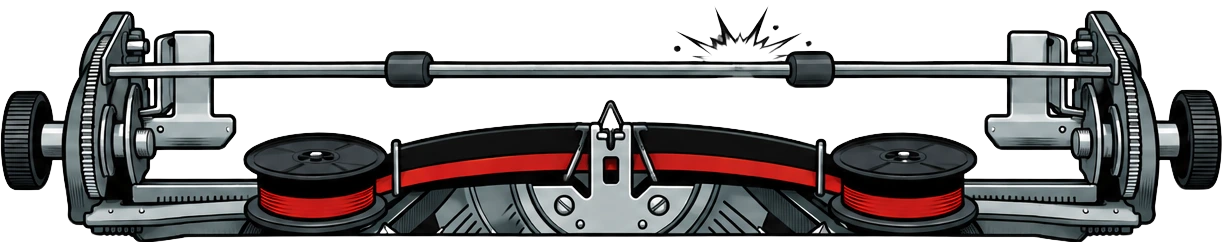
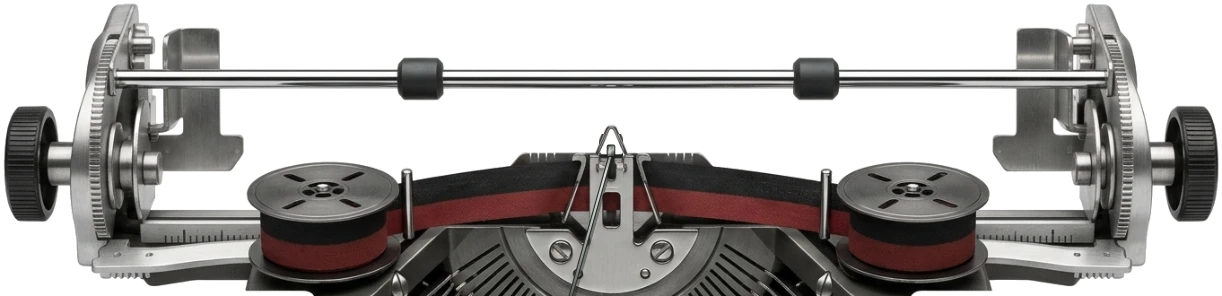
feat: máquina de escrever técnica fotorrealista sem explosões + Fases 7-10 no plano de voo
- Substitui os 5 quadros cartoon da máquina por renderização industrial fotorrealista (1222x296 WebP/PNG, 55 KB/quadro em WebP, recorte com descontaminação de halo sobre E-Ink #c4cfc2)
- Remove completamente explosões/estalos cartoon nos quadros de batida e no fallback SVG: os quadros strike-1..4 exibem apenas haste metálica real (typebar) e micro-elevação da fita no guia-tipo
- Aprimora o movimento físico em maquina-visual.js: micro-recuo seco na tecla, passo lateral no Backspace e retorno lateral amortecido do carro no Enter
- Registra no Plano de Voo (docs/PLANO-VOO-TRANSPLANTE-ES5.md): Fase 7 (papel paginado padrão Word/laudas no Superfoco), Fase 8 (salvamento/exportação seletiva por projeto/pasta/nota), Fase 9 (impressão editorial por nota/pasta/projeto) e Fase 10 (futuros temas derivados do E-Ink)
- 61/61 verificações essenciais + build reproduzível confirmados

diff --git a/escrevaral.html b/escrevaral.html
@@ -12549,13 +12549,13 @@ SOFTWARE.
   'use strict';
   root.Escr = root.Escr || {};
 
-  var RATIO = 242 / 1222;
+  var RATIO = 296 / 1222;
   var PLATEN = 0.60;
-  var ROLLER_TOP = 61 / 242;
+  var ROLLER_TOP = 70 / 296;
   var MIN_VISIBLE = 0.62;
   var MAX_SHARE = 0.38;
-  var STRIKE = { lift: 2.2, ms: 115 };
-  var CARRIAGE = { lift: 5.0, ms: 180 };
+  var STRIKE = { lift: 1.7, ms: 92 };
+  var CARRIAGE = { lift: 2.4, sweep: -12, ms: 215 };
   var IDLE_TIMEOUT_MS = 135;
   var PREF_KEY = 'escrevaral.typewriter.machine.v1';
   var FRAME_FILES = [
@@ -12570,7 +12570,7 @@ SOFTWARE.
 
   function makeFallbackSvg(idx) {
     var spark = idx > 0
-      ? '<g stroke="#242d23" stroke-width="2.5" stroke-linecap="round"><line x1="611" y1="32" x2="' + (592 + idx * 9) + '" y2="14"/><line x1="611" y1="32" x2="' + (630 - idx * 7) + '" y2="16"/></g>'
+      ? '<line x1="' + (540 + idx * 28) + '" y1="242" x2="611" y2="96" stroke="#9ea7a3" stroke-width="4" stroke-linecap="round"/><rect x="606" y="88" width="10" height="14" rx="1.5" fill="#4b534f"/>'
       : '';
     var svg = '<svg xmlns="http://www.w3.org/2000/svg" viewBox="0 0 1222 242">' +
       '<rect x="64" y="61" width="1094" height="58" rx="18" fill="#242d23"/>' +
@@ -12803,11 +12803,25 @@ SOFTWARE.
       if (typeof wrap.animate === 'function') {
         try { if (animObj) { animObj.cancel(); } } catch (ignore) {}
         try {
-          animObj = wrap.animate([
-            { transform: 'translate3d(0,0,0)', easing: 'cubic-bezier(0.2, 0.8, 0.3, 1)' },
-            { transform: 'translate3d(0,' + spec.lift + 'px,0)', offset: 0.38, easing: 'cubic-bezier(0.35, 0, 0.25, 1)' },
-            { transform: 'translate3d(0,0,0)' }
-          ], { duration: spec.ms });
+          var framesAnim = kind === 'return'
+            ? [
+                { transform: 'translate3d(0,0,0)', easing: 'cubic-bezier(0.22, 0.85, 0.3, 1)' },
+                { transform: 'translate3d(' + spec.sweep + 'px,' + spec.lift + 'px,0)', offset: 0.34, easing: 'cubic-bezier(0.32, 0, 0.22, 1)' },
+                { transform: 'translate3d(1.4px,0,0)', offset: 0.78, easing: 'ease-out' },
+                { transform: 'translate3d(0,0,0)' }
+              ]
+            : kind === 'backspace'
+              ? [
+                  { transform: 'translate3d(0,0,0)', easing: 'cubic-bezier(0.2, 0.8, 0.3, 1)' },
+                  { transform: 'translate3d(2.5px,0.8px,0)', offset: 0.4, easing: 'ease-out' },
+                  { transform: 'translate3d(0,0,0)' }
+                ]
+              : [
+                  { transform: 'translate3d(0,0,0)', easing: 'cubic-bezier(0.2, 0.9, 0.3, 1)' },
+                  { transform: 'translate3d(0,' + spec.lift + 'px,0)', offset: 0.32, easing: 'cubic-bezier(0.35, 0, 0.25, 1)' },
+                  { transform: 'translate3d(0,0,0)' }
+                ];
+          animObj = wrap.animate(framesAnim, { duration: spec.ms });
           return;
         } catch (ignore) {}
       }

diff --git a/assets/20261014-scrvrl-exame-v6-65/app.b5068acf90575b5f.js b/assets/20261014-scrvrl-exame-v6-65/app.b5068acf90575b5f.js
@@ -4008,13 +4008,13 @@
   'use strict';
   root.Escr = root.Escr || {};
 
-  var RATIO = 242 / 1222;
+  var RATIO = 296 / 1222;
   var PLATEN = 0.60;
-  var ROLLER_TOP = 61 / 242;
+  var ROLLER_TOP = 70 / 296;
   var MIN_VISIBLE = 0.62;
   var MAX_SHARE = 0.38;
-  var STRIKE = { lift: 2.2, ms: 115 };
-  var CARRIAGE = { lift: 5.0, ms: 180 };
+  var STRIKE = { lift: 1.7, ms: 92 };
+  var CARRIAGE = { lift: 2.4, sweep: -12, ms: 215 };
   var IDLE_TIMEOUT_MS = 135;
   var PREF_KEY = 'escrevaral.typewriter.machine.v1';
   var FRAME_FILES = [
@@ -4029,7 +4029,7 @@
 
   function makeFallbackSvg(idx) {
     var spark = idx > 0
-      ? '<g stroke="#242d23" stroke-width="2.5" stroke-linecap="round"><line x1="611" y1="32" x2="' + (592 + idx * 9) + '" y2="14"/><line x1="611" y1="32" x2="' + (630 - idx * 7) + '" y2="16"/></g>'
+      ? '<line x1="' + (540 + idx * 28) + '" y1="242" x2="611" y2="96" stroke="#9ea7a3" stroke-width="4" stroke-linecap="round"/><rect x="606" y="88" width="10" height="14" rx="1.5" fill="#4b534f"/>'
       : '';
     var svg = '<svg xmlns="http://www.w3.org/2000/svg" viewBox="0 0 1222 242">' +
       '<rect x="64" y="61" width="1094" height="58" rx="18" fill="#242d23"/>' +
@@ -4262,11 +4262,25 @@
       if (typeof wrap.animate === 'function') {
         try { if (animObj) { animObj.cancel(); } } catch (ignore) {}
         try {
-          animObj = wrap.animate([
-            { transform: 'translate3d(0,0,0)', easing: 'cubic-bezier(0.2, 0.8, 0.3, 1)' },
-            { transform: 'translate3d(0,' + spec.lift + 'px,0)', offset: 0.38, easing: 'cubic-bezier(0.35, 0, 0.25, 1)' },
-            { transform: 'translate3d(0,0,0)' }
-          ], { duration: spec.ms });
+          var framesAnim = kind === 'return'
+            ? [
+                { transform: 'translate3d(0,0,0)', easing: 'cubic-bezier(0.22, 0.85, 0.3, 1)' },
+                { transform: 'translate3d(' + spec.sweep + 'px,' + spec.lift + 'px,0)', offset: 0.34, easing: 'cubic-bezier(0.32, 0, 0.22, 1)' },
+                { transform: 'translate3d(1.4px,0,0)', offset: 0.78, easing: 'ease-out' },
+                { transform: 'translate3d(0,0,0)' }
+              ]
+            : kind === 'backspace'
+              ? [
+                  { transform: 'translate3d(0,0,0)', easing: 'cubic-bezier(0.2, 0.8, 0.3, 1)' },
+                  { transform: 'translate3d(2.5px,0.8px,0)', offset: 0.4, easing: 'ease-out' },
+                  { transform: 'translate3d(0,0,0)' }
+                ]
+              : [
+                  { transform: 'translate3d(0,0,0)', easing: 'cubic-bezier(0.2, 0.9, 0.3, 1)' },
+                  { transform: 'translate3d(0,' + spec.lift + 'px,0)', offset: 0.32, easing: 'cubic-bezier(0.35, 0, 0.25, 1)' },
+                  { transform: 'translate3d(0,0,0)' }
+                ];
+          animObj = wrap.animate(framesAnim, { duration: spec.ms });
           return;
         } catch (ignore) {}
       }

diff --git a/src/ui/maquina-visual.js b/src/ui/maquina-visual.js
@@ -2,13 +2,13 @@
   'use strict';
   root.Escr = root.Escr || {};
 
-  var RATIO = 242 / 1222;
+  var RATIO = 296 / 1222;
   var PLATEN = 0.60;
-  var ROLLER_TOP = 61 / 242;
+  var ROLLER_TOP = 70 / 296;
   var MIN_VISIBLE = 0.62;
   var MAX_SHARE = 0.38;
-  var STRIKE = { lift: 2.2, ms: 115 };
-  var CARRIAGE = { lift: 5.0, ms: 180 };
+  var STRIKE = { lift: 1.7, ms: 92 };
+  var CARRIAGE = { lift: 2.4, sweep: -12, ms: 215 };
   var IDLE_TIMEOUT_MS = 135;
   var PREF_KEY = 'escrevaral.typewriter.machine.v1';
   var FRAME_FILES = [
@@ -23,7 +23,7 @@
 
   function makeFallbackSvg(idx) {
     var spark = idx > 0
-      ? '<g stroke="#242d23" stroke-width="2.5" stroke-linecap="round"><line x1="611" y1="32" x2="' + (592 + idx * 9) + '" y2="14"/><line x1="611" y1="32" x2="' + (630 - idx * 7) + '" y2="16"/></g>'
+      ? '<line x1="' + (540 + idx * 28) + '" y1="242" x2="611" y2="96" stroke="#9ea7a3" stroke-width="4" stroke-linecap="round"/><rect x="606" y="88" width="10" height="14" rx="1.5" fill="#4b534f"/>'
       : '';
     var svg = '<svg xmlns="http://www.w3.org/2000/svg" viewBox="0 0 1222 242">' +
       '<rect x="64" y="61" width="1094" height="58" rx="18" fill="#242d23"/>' +
@@ -256,11 +256,25 @@
       if (typeof wrap.animate === 'function') {
         try { if (animObj) { animObj.cancel(); } } catch (ignore) {}
         try {
-          animObj = wrap.animate([
-            { transform: 'translate3d(0,0,0)', easing: 'cubic-bezier(0.2, 0.8, 0.3, 1)' },
-            { transform: 'translate3d(0,' + spec.lift + 'px,0)', offset: 0.38, easing: 'cubic-bezier(0.35, 0, 0.25, 1)' },
-            { transform: 'translate3d(0,0,0)' }
-          ], { duration: spec.ms });
+          var framesAnim = kind === 'return'
+            ? [
+                { transform: 'translate3d(0,0,0)', easing: 'cubic-bezier(0.22, 0.85, 0.3, 1)' },
+                { transform: 'translate3d(' + spec.sweep + 'px,' + spec.lift + 'px,0)', offset: 0.34, easing: 'cubic-bezier(0.32, 0, 0.22, 1)' },
+                { transform: 'translate3d(1.4px,0,0)', offset: 0.78, easing: 'ease-out' },
+                { transform: 'translate3d(0,0,0)' }
+              ]
+            : kind === 'backspace'
+              ? [
+                  { transform: 'translate3d(0,0,0)', easing: 'cubic-bezier(0.2, 0.8, 0.3, 1)' },
+                  { transform: 'translate3d(2.5px,0.8px,0)', offset: 0.4, easing: 'ease-out' },
+                  { transform: 'translate3d(0,0,0)' }
+                ]
+              : [
+                  { transform: 'translate3d(0,0,0)', easing: 'cubic-bezier(0.2, 0.9, 0.3, 1)' },
+                  { transform: 'translate3d(0,' + spec.lift + 'px,0)', offset: 0.32, easing: 'cubic-bezier(0.35, 0, 0.25, 1)' },
+                  { transform: 'translate3d(0,0,0)' }
+                ];
+          animObj = wrap.animate(framesAnim, { duration: spec.ms });
           return;
         } catch (ignore) {}
       }

diff --git a/service-worker.js b/service-worker.js
@@ -1,5 +1,5 @@
 /* Gerado: editar src/app/service-worker.template.js. */
-const CACHE_NAME = "scrvrl-offline-v6-65-3c64f5893614";
+const CACHE_NAME = "scrvrl-offline-v6-65-68d70d4230b8";
 const RUNTIME_CACHE = "scrvrl-runtime-v1";
 const ASSET_VERSION = "20261014-scrvrl-exame-v6-65";
 const REQUIRED_ASSETS = [
@@ -8,8 +8,8 @@ const REQUIRED_ASSETS = [
[1 lines of base64/hex data omitted]
   },
   {
-    "url": "./assets/20261014-scrvrl-exame-v6-65/app.321bf69e3d6843d0.js",
[1 lines of base64/hex data omitted]
+    "url": "./assets/20261014-scrvrl-exame-v6-65/app.b5068acf90575b5f.js",
[1 lines of base64/hex data omitted]
   },
   {
     "url": "./assets/20261014-scrvrl-exame-v6-65/styles.b5787370427a61a5.css",
@@ -41,7 +41,7 @@ async function checkedAsset(asset) {
 self.addEventListener('install', event => {
   event.waitUntil((async () => {
     const cache = await caches.open(CACHE_NAME);
[2 lines of base64/hex data omitted]
     if (!index.ok || (await index.clone().text()).indexOf('content="' + ASSET_VERSION + '"') < 0) throw new Error('Documento de outra versão');
     await Promise.all(REQUIRED_ASSETS.map(async asset => cache.put(asset.url, await checkedAsset(asset))));
     await cache.put('./index.html', index.clone()); await cache.put('./', index);

diff --git a/index.html b/index.html
@@ -493,6 +493,6 @@ SOFTWARE.
     <footer class="focus-footer"><div class="focus-barcode" aria-hidden="true"></div><p>ESCREVARAL · TEMPO DE PAUSA</p><button id="focus-finish">Encerrar pausa</button></footer>
   </section>
   <script src="assets/20261014-scrvrl-exame-v6-65/cofre.169f365706dced48.js"></script>
-<script src="assets/20261014-scrvrl-exame-v6-65/app.321bf69e3d6843d0.js"></script>
+<script src="assets/20261014-scrvrl-exame-v6-65/app.b5068acf90575b5f.js"></script>
 
 </body></html>

diff --git a/docs/PLANO-VOO-TRANSPLANTE-ES5.md b/docs/PLANO-VOO-TRANSPLANTE-ES5.md
@@ -67,3 +67,37 @@
   3. `npm run build && npm run build:check && npm test` = **100% OK**.
   4. Testes reais em **Chromium** (`QA_BROWSER_EXECUTABLE=/usr/bin/google-chrome`): `tests/ptbr-browser.cjs` corrigido + nova suíte E2E cobrindo **todas** as features do App Linux e da Web, 0 erros de console, 0 `SecurityError`, 0 requests falhos.
   5. Conferência do modo portátil `escrevaral.html` e do cache offline no Service Worker.
+
+
+---
+
+## Próximas Fases do Plano de Voo (Pós-Fusão / Evolução & Handoff Hydrogen)
+
+### [x] Refino Visual E-Ink + Máquina de Escrever Mecânica Realista (20/11/2026)
+- **Entregas concluídas:**
+  - Tema único calibrado **Papel digital (E-Ink Sálvia `#c4cfc2`)** em folha contínua nas 3 colunas, Superfoco, Parágrafo e Modo Leitor (zero manchas claras/creme, zero quadrados clareando no hover).
+  - Barra de rolagem oculta no Superfoco e `2px` quase imperceptível na mesa.
+  - **Máquina de escrever técnica fotorrealista** (`assets/typewriter/*.{webp,png}`, `1222×296`, aço escovado, roletes de borracha fosca, régua milimetrada, carretéis perfurados e cesto de hastes): removidas todas as explosões/estalos cartoon; ilusão baseada apenas em **haste metálica real (typebar)** + micro-elevação da fita + recuo físico ponderado + retorno lateral real do carro no `Enter` + som mecânico.
+
+### [ ] Fase 7 — Papel Paginado no Superfoco com Máquina Habilitada (Padrão Word / Laudas)
+- **Objetivo:** Quando o autor entra no Superfoco com a máquina habilitada, exibir uma folha de papel física (com margens e proporção de página/lauda padrão Word) deslizando por trás da barra prensa-papel da máquina.
+- **Comportamento:** À medida que o texto completa uma lauda/página (padrão Word/ABNT), o papel avança e troca para a nova folha seguinte, reforçando a ilusão real de datilografia página por página sem quebrar a rolagem nem os offsets UTF-16 do Cofre.
+- **Compatibilidade:** ES5 estrito no núcleo (`src/ui/superfoco.js`, `src/ui/styles/maquina-superfoco.css`).
+
+### [ ] Fase 8 — Revisão de Salvamento e Exportação Seletiva por Escopo
+- **Objetivo:** Tornar o salvamento e a exportação 100% claros, explícitos e sem ambiguidade para o escritor:
+  - **Salvar / exportar só este projeto (ex.: "só este romance")** — gera arquivo/pacote contendo todas as pastas e textos daquele projeto específico.
+  - **Salvar / exportar só esta pasta / capítulo** — exporta o subconjunto selecionado.
+  - **Salvar / exportar só esta nota** — exportação rápida individual (`.txt`, `.md`, `.html`).
+  - **Backup completo do acervo** — claramente separado das exportações individuais/por projeto.
+- **Fluxos a revisar:** `src/ui/transferencia.js`, `src/storage/cadernos.js`, `src/editor/controlador.js`, menu da pasta em `src/ui/tres-colunas.js` e diálogo `Baixar` / `Ajustes`.
+
+### [ ] Fase 9 — Revisão de Impressão Editorial (Nota, Pasta e Projeto Completo)
+- **Objetivo:** Permitir imprimir com acabamento tipográfico limpo (papel branco + tinta preta pura em `@media print`, sem elementos de interface):
+  - **Imprimir nota atual** (documento individual).
+  - **Imprimir pasta / parte selecionada** (todas as notas da pasta em ordem, com cabeçalhos limpos).
+  - **Imprimir projeto / obra inteira** (folha de rosto com título do projeto, divisão por pastas/capítulos e quebras de página coerentes).
+- **Fluxos a revisar:** `#print-sheet`, `src/ui/styles/base.css` (`@media print`), `src/editor/controlador.js` (`desk-print`) e menu da pasta/projeto em `src/ui/tres-colunas.js`.
+
+### [ ] Fase 10 — Novos Temas Derivados do E-Ink Calibrado (Futuro)
+- **Objetivo:** Somente após o tema único **Papel digital (E-Ink Sálvia)** estar 100% validado em uso real, criar temas adicionais (Papel creme, Escuro Carbon, Claro neutro) herdando a mesma disciplina de folha contínua, contraste AAA e hover sem quadrados.
